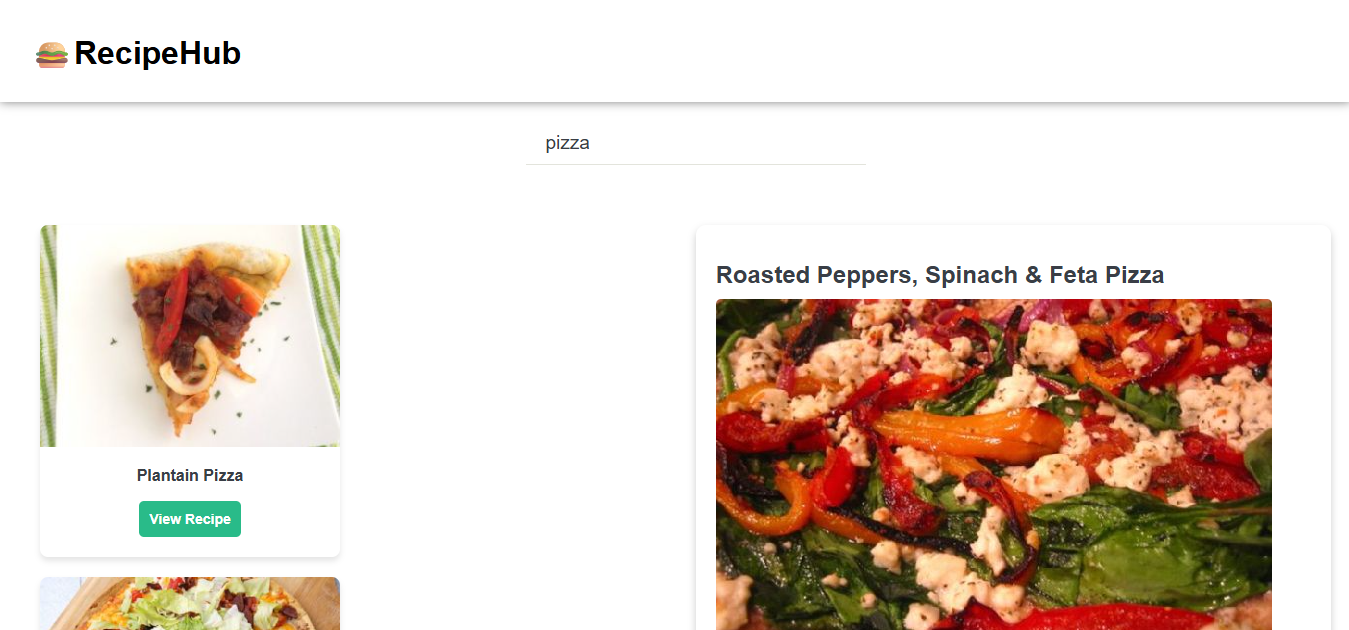
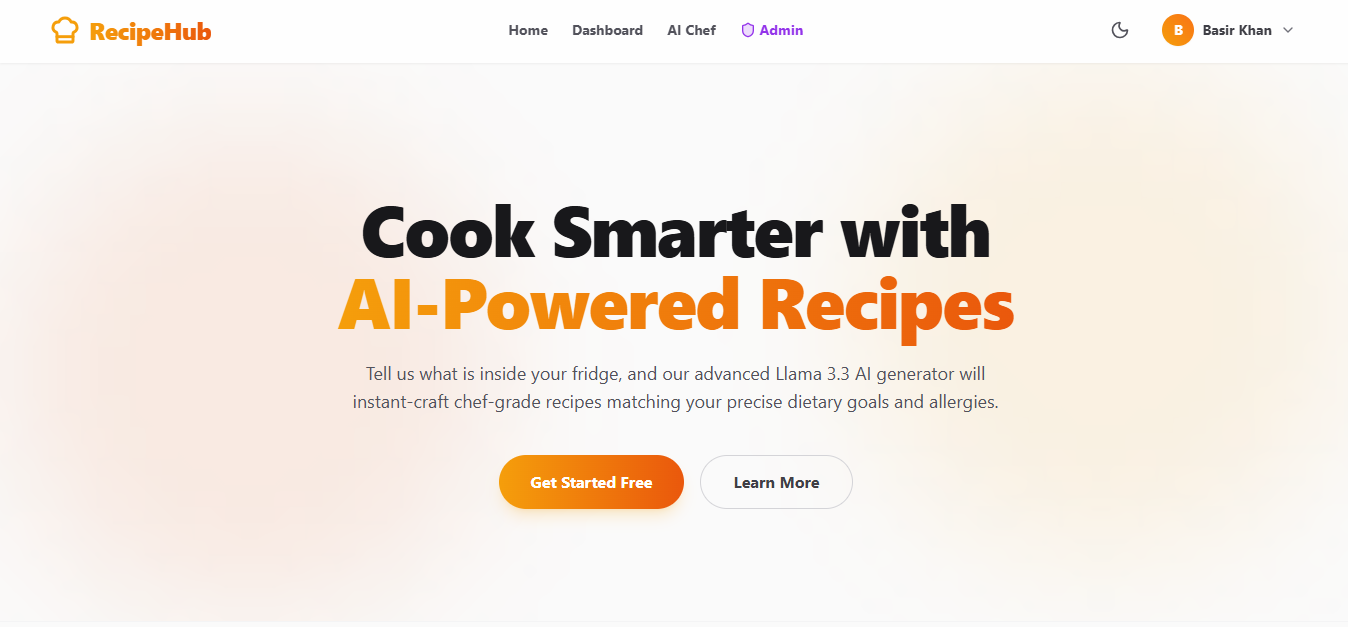
Updated portfolio...

diff --git a/src/components/Experience.jsx b/src/components/Experience.jsx
@@ -39,6 +39,13 @@ const Experience = () => {
 
   const personalProjects = [
     {
+      title: "RecipeHub (AI Microservices)",
+      tech: "React 18 • Node.js Microservices • API Gateway • Groq AI • Neon Postgres • Redis • Kafka",
+      link: "https://recipe-hub-ashen-theta.vercel.app/",
+      category: "Personal",
+      bgClass: "bg-[url('./assets/recipehub.png')]"
+    },
+    {
       title: "SyncUp (AI Job Platform)",
       tech: "Next.js • Node.js • Groq AI • AWS • PostgreSQL • Redis",
       link: "https://syncup-ai-job-platform.vercel.app/",
@@ -46,25 +53,18 @@ const Experience = () => {
       bgClass: "bg-[url('./assets/syncup.png')]"
     },
     {
+      title: "The Sylheti Archive",
+      tech: "Next.js 15 • React 19 • PostgreSQL • Prisma • Redis • Tailwind",
+      link: "https://sylhetiarchivercc.org/",
+      category: "Freelance",
+      bgClass: "bg-[url('./assets/thesylhetiarchive.png')]"
+    },
+    {
       title: "Real-Time Chat App",
       tech: "React • Node.js • Microservices • Socket.IO • AWS • Docker",
       link: "https://chatfrontend-v2.vercel.app/",
       category: "Personal",
       bgClass: "bg-[url('./assets/chatapp.png')]"
-    },
-    {
-      title: "RecipeHub (React)",
-      tech: "React • Tailwind CSS • REST API • Responsive",
-      link: "https://engineer-bk.github.io/RecipeHub/",
-      category: "Personal",
-      bgClass: "bg-[url('./assets/recipehub.png')]"
-    },
-    {
-      title: "The Sylheti Archive",
-      tech: "Next.js 15 • React 19 • PostgreSQL • Prisma • Redis • Tailwind",
-      link: "https://the-siloti-archive-git-sarcc-991861-thesylotiarchives-projects.vercel.app/",
-      category: "Freelance",
-      bgClass: "bg-[url('./assets/thesylhetiarchive.png')]"
     },
     {
       title: "Admission Management",